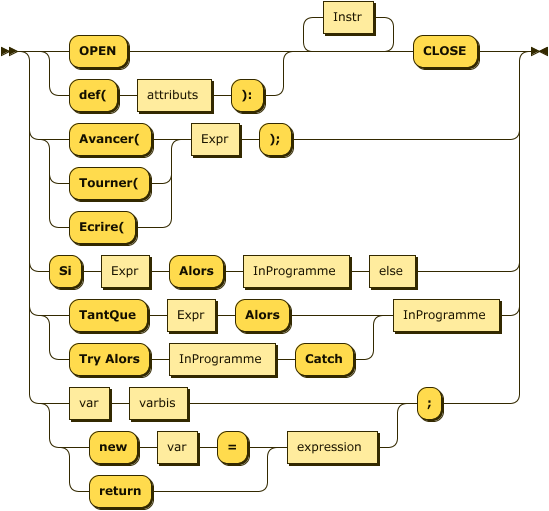
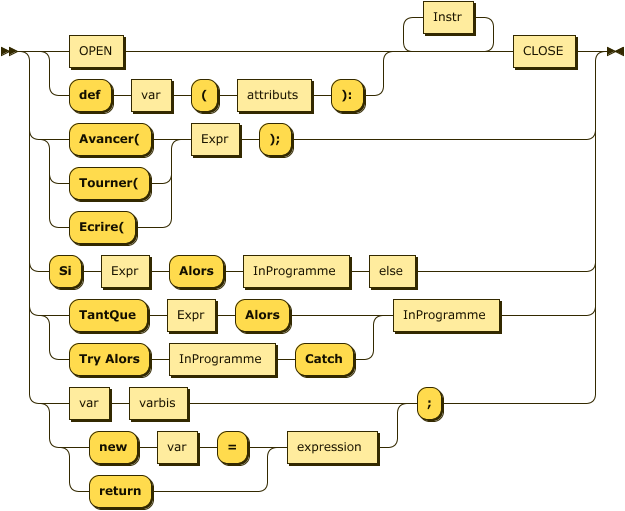
enleve coquille

Changed region(s): [[0.0, 0.0, 1.0, 0.998], [0.7432, 0.7339, 0.8051, 0.8513]]

diff --git a/docs/index.html b/docs/index.html
@@ -193,13 +193,13 @@
    </head>
    <body>
       
-      <p style="font-size: 14px; font-weight:bold"><a name="programme" shape="rect">programme:</a></p><img border="0" src="diagram/programme.png" height="71" width="215" usemap="#programme.map"><map name="programme.map"><area shape="rect" coords="49,1,99,33" href="#Instr" title="Instr"></map><p>
+      <p style="font-size: 14px; font-weight:bold"><a name="programme" shape="rect">programme:</a></p><img border="0" src="diagram/programme.png" height="71" width="213" usemap="#programme.map"><map name="programme.map"><area shape="rect" coords="49,1,99,33" href="#Instr" title="Instr"><area shape="rect" coords="139,35,183,67" href="#EOF" title="EOF"></map><p>
          
          <div class="ebnf"><code>
                
                <div><a href="#programme" title="programme" shape="rect">programme</a></div>
                
-               <div>&nbsp;&nbsp;&nbsp;&nbsp;&nbsp;&nbsp;&nbsp;&nbsp;&nbsp;::= <a href="#Instr" title="Instr" shape="rect">Instr</a>* 'EOF'</div></code></div>
+               <div>&nbsp;&nbsp;&nbsp;&nbsp;&nbsp;&nbsp;&nbsp;&nbsp;&nbsp;::= <a href="#Instr" title="Instr" shape="rect">Instr</a>* <a href="#EOF" title="EOF" shape="rect">EOF</a></div></code></div>
          </p>
       
       <p>no references</p><br clear="none"><p style="font-size: 14px; font-weight:bold"><a name="InProgramme" shape="rect">InProgramme:</a></p><img border="0" src="diagram/InProgramme.png" height="71" width="209" usemap="#InProgramme.map"><map name="InProgramme.map"><area shape="rect" coords="49,1,99,33" href="#Instr" title="Instr"></map><p>
@@ -217,7 +217,7 @@
             <li><a href="#Instr" title="Instr" shape="rect">Instr</a></li>
             <li><a href="#else" title="else" shape="rect">else</a></li>
          </ul>
-         </p><br clear="none"><p style="font-size: 14px; font-weight:bold"><a name="Instr" shape="rect">Instr:</a></p><img border="0" src="diagram/Instr.png" height="511" width="549" usemap="#Instr.map"><map name="Instr.map"><area shape="rect" coords="137,79,211,111" href="#attributs" title="attributs"><area shape="rect" coords="323,1,373,33" href="#Instr" title="Instr"><area shape="rect" coords="191,123,239,155" href="#Expr" title="Expr"><area shape="rect" coords="101,255,149,287" href="#Expr" title="Expr"><area shape="rect" coords="243,255,349,287" href="#InProgramme" title="InProgramme"><area shape="rect" coords="369,255,415,287" href="#else" title="else"><area shape="rect" coords="167,299,215,331" href="#Expr" title="Expr"><area shape="rect" coords="169,343,275,375" href="#InProgramme" title="InProgramme"><area shape="rect" coords="393,299,499,331" href="#InProgramme" title="InProgramme"><area shape="rect" coords="69,387,109,419" href="#var" title="var"><area shape="rect" coords="129,387,187,419" href="#varbis" title="varbis"><area shape="rect" coords="157,431,197,463" href="#var" title="var"><area shape="rect" coords="287,431,377,463" href="#expression" title="expression"></map><p>
+         </p><br clear="none"><p style="font-size: 14px; font-weight:bold"><a name="Instr" shape="rect">Instr:</a></p><img border="0" src="diagram/Instr.png" height="511" width="625" usemap="#Instr.map"><map name="Instr.map"><area shape="rect" coords="69,35,123,67" href="#OPEN" title="OPEN"><area shape="rect" coords="131,79,171,111" href="#var" title="var"><area shape="rect" coords="237,79,311,111" href="#attributs" title="attributs"><area shape="rect" coords="423,1,473,33" href="#Instr" title="Instr"><area shape="rect" coords="513,35,575,67" href="#CLOSE" title="CLOSE"><area shape="rect" coords="191,123,239,155" href="#Expr" title="Expr"><area shape="rect" coords="101,255,149,287" href="#Expr" title="Expr"><area shape="rect" coords="243,255,349,287" href="#InProgramme" title="InProgramme"><area shape="rect" coords="369,255,415,287" href="#else" title="else"><area shape="rect" coords="167,299,215,331" href="#Expr" title="Expr"><area shape="rect" coords="169,343,275,375" href="#InProgramme" title="InProgramme"><area shape="rect" coords="393,299,499,331" href="#InProgramme" title="InProgramme"><area shape="rect" coords="69,387,109,419" href="#var" title="var"><area shape="rect" coords="129,387,187,419" href="#varbis" title="varbis"><area shape="rect" coords="157,431,197,463" href="#var" title="var"><area shape="rect" coords="287,431,377,463" href="#expression" title="expression"></map><p>
          
          <div class="ebnf"><code>
                
@@ -229,7 +229,7 @@
                
                <div>&nbsp;&nbsp;&nbsp;&nbsp;&nbsp;&nbsp;&nbsp;&nbsp;&nbsp;&nbsp;&nbsp;| ( <a href="#var" title="var" shape="rect">var</a> <a href="#varbis" title="varbis" shape="rect">varbis</a> | ( 'new' <a href="#var" title="var" shape="rect">var</a> '=' | 'return' ) <a href="#expression" title="expression" shape="rect">expression</a> ) ';'</div>
                
-               <div>&nbsp;&nbsp;&nbsp;&nbsp;&nbsp;&nbsp;&nbsp;&nbsp;&nbsp;&nbsp;&nbsp;| ( 'OPEN' | 'def(' <a href="#attributs" title="attributs" shape="rect">attributs</a> '):' ) <a href="#Instr" title="Instr" shape="rect">Instr</a>* 'CLOSE'</div></code></div>
+               <div>&nbsp;&nbsp;&nbsp;&nbsp;&nbsp;&nbsp;&nbsp;&nbsp;&nbsp;&nbsp;&nbsp;| ( <a href="#OPEN" title="OPEN" shape="rect">OPEN</a> | 'def' <a href="#var" title="var" shape="rect">var</a> '(' <a href="#attributs" title="attributs" shape="rect">attributs</a> '):' ) <a href="#Instr" title="Instr" shape="rect">Instr</a>* <a href="#CLOSE" title="CLOSE" shape="rect">CLOSE</a></div></code></div>
          </p>
       
       <p>referenced by:
@@ -269,11 +269,11 @@
          <ul>
             <li><a href="#Instr" title="Instr" shape="rect">Instr</a></li>
          </ul>
-         </p><br clear="none"><p style="font-size: 14px; font-weight:bold"><a name="attribut" shape="rect">attribut:</a></p><img border="0" src="diagram/attribut.png" height="37" width="247" usemap="#attribut.map"><map name="attribut.map"><area shape="rect" coords="29,1,99,33" href="#variable" title="variable"><area shape="rect" coords="119,1,217,33" href="#suiteattribut" title="suiteattribut"></map><p>
+         </p><br clear="none"><p style="font-size: 14px; font-weight:bold"><a name="attribut" shape="rect">attribut:</a></p><img border="0" src="diagram/attribut.png" height="37" width="217" usemap="#attribut.map"><map name="attribut.map"><area shape="rect" coords="29,1,69,33" href="#var" title="var"><area shape="rect" coords="89,1,187,33" href="#suiteattribut" title="suiteattribut"></map><p>
          
          <div class="ebnf"><code>
                
-               <div><a href="#attribut" title="attribut" shape="rect">attribut</a>&nbsp;::= <a href="#variable" title="variable" shape="rect">variable</a> <a href="#suiteattribut" title="suiteattribut" shape="rect">suiteattribut</a></div></code></div>
+               <div><a href="#attribut" title="attribut" shape="rect">attribut</a>&nbsp;::= <a href="#var" title="var" shape="rect">var</a> <a href="#suiteattribut" title="suiteattribut" shape="rect">suiteattribut</a></div></code></div>
          </p>
       
       <p>referenced by:
@@ -331,7 +331,6 @@
          
          <ul>
             <li><a href="#Expr" title="Expr" shape="rect">Expr</a></li>
-            <li><a href="#attribut" title="attribut" shape="rect">attribut</a></li>
          </ul>
          </p><br clear="none"><p style="font-size: 14px; font-weight:bold"><a name="isFonction" shape="rect">isFonction:</a></p><img border="0" src="diagram/isFonction.png" height="81" width="283" usemap="#isFonction.map"><map name="isFonction.map"><area shape="rect" coords="99,1,187,33" href="#arguments" title="arguments"><area shape="rect" coords="49,45,75,77" href="#%CE%B5" title="ε"></map><p>
          
@@ -490,6 +489,7 @@
          
          <ul>
             <li><a href="#Instr" title="Instr" shape="rect">Instr</a></li>
+            <li><a href="#attribut" title="attribut" shape="rect">attribut</a></li>
             <li><a href="#variable" title="variable" shape="rect">variable</a></li>
          </ul>
          </p><br clear="none"><p style="font-size: 14px; font-weight:bold"><a name="else" shape="rect">else:</a></p><img border="0" src="diagram/else.png" height="81" width="321" usemap="#else.map"><map name="else.map"><area shape="rect" coords="165,1,271,33" href="#InProgramme" title="InProgramme"><area shape="rect" coords="49,45,75,77" href="#%CE%B5" title="ε"></map><p>

diff --git a/README.md b/README.md
@@ -33,14 +33,14 @@ instruction   → Avancer( expression ); |
                 OPEN Block |  
                 new var = expression ; |  
                 Try Alors InProgramme Catch InProgramme |  
-                def( attributs ): Block |  
+                def var ( attributs ): Block |  
                 return expression;  
   
 varbis        → = expression | ( arguments )  
   
 attributs     → ε | attribut  
   
-attribut      → variable suiteattribut  
+attribut      → var suiteattribut  
   
 suiteattribut → , argument |  ε  
   
@@ -97,16 +97,16 @@ else          → Sinon Alors InProgramme | ε
                     "TantQue" <Expr> "Alors" <InProgramme> |  
                     <var> <varbis> ";" |  
                     OPEN <Block> |  
-                    "new" <var> "=" <expression>; |  
+                    "new" <var> "=" <expression> ";" |  
                     "Try Alors" <InProgramme> "Catch" <InProgramme> |  
-                    "def(" <attributs> "):" <Block> |  
+                    "def" <var> "(" <attributs> "):" <Block> |  
                     "return" <expression> ";"  
   
 <varbis>        ::= "=" <expression> ";" | "(" <arguments> ")"  
   
 <attributs>     ::= ε | <attribut>  
   
-<attribut>      ::= <variable> <suiteattribut>  
+<attribut>      ::= <var> <suiteattribut>  
   
 <suiteattribut> ::= "," <argument> |  ε  
   
